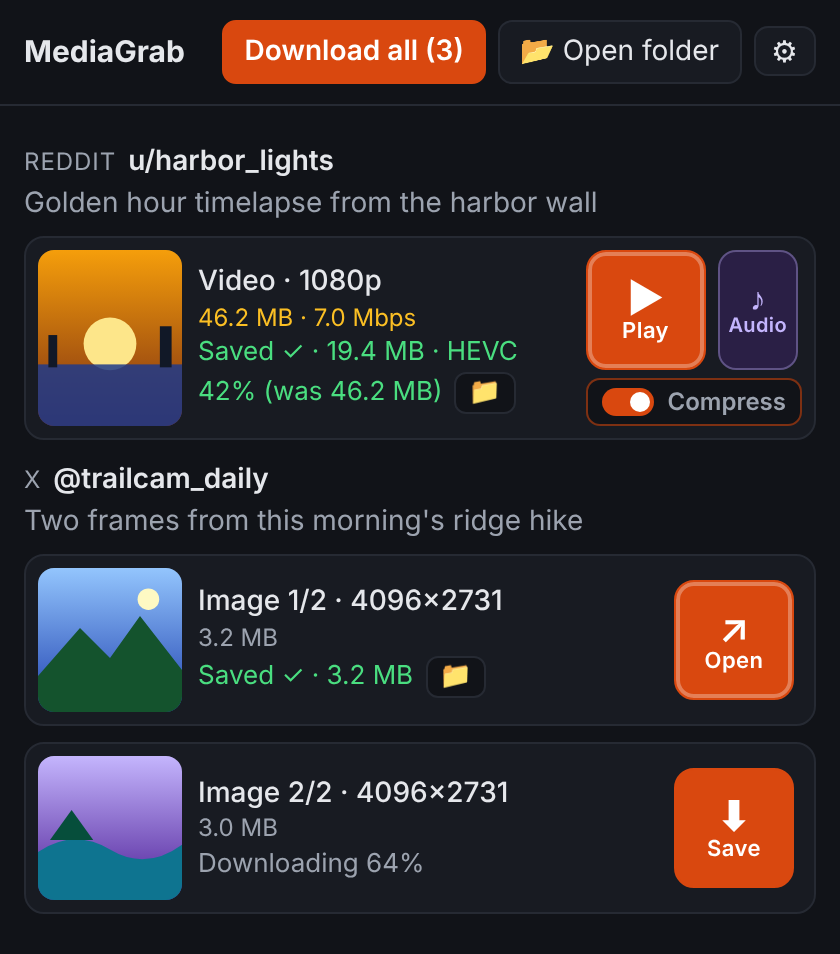
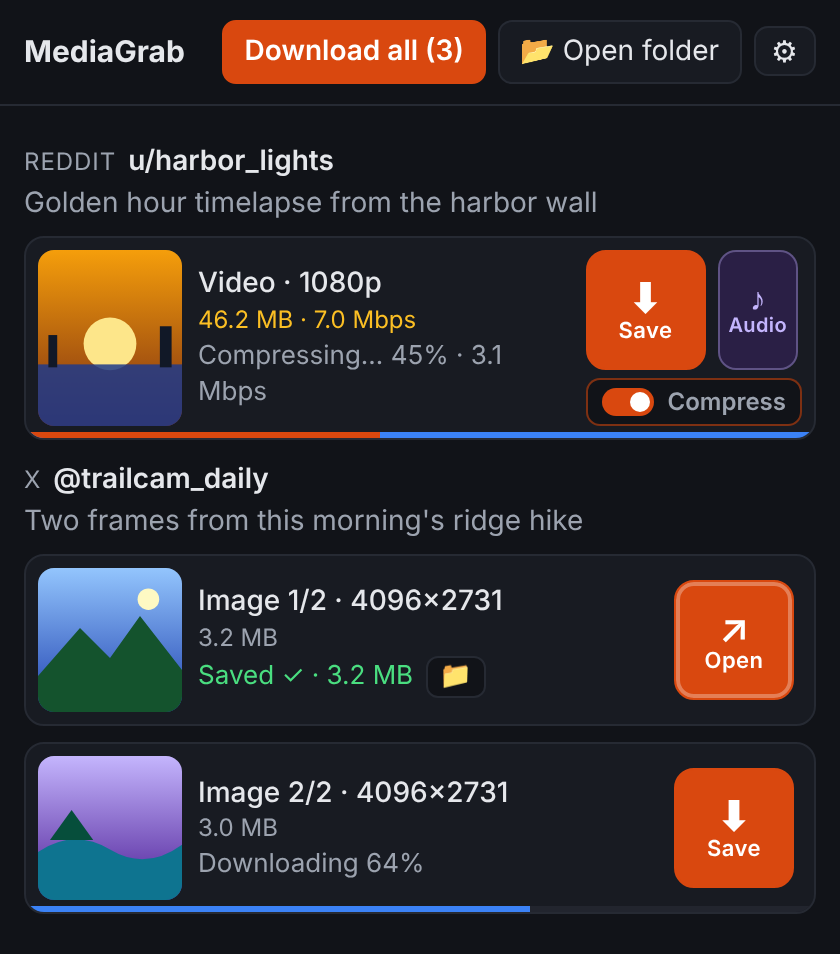
Progress bar per item and six compression quality presets
- Each popup row has a thin progress bar on its bottom edge: blue while
  downloading, then orange sweeping over it during compression; it fades
  out when the job finishes.
- Compression quality presets: Maximum, High, Balanced, Smaller, Much
  smaller, Tiny (helper 1.5.1 maps each to x265 CRF / GPU CQ values).

Claude-Session: https://claude.ai/code/session_011WKAAgvAQJpjt1ycjrW9mj

Changed region(s): [[0.0619, 0.2736, 0.9595, 0.4864], [0.031, 0.9423, 0.619, 0.9727], [0.681, 0.2432, 0.8357, 0.3952]]

diff --git a/popup/popup.js b/popup/popup.js
@@ -92,8 +92,9 @@ function renderItem(it) {
   const status = el('div', 'status', '');
   meta.append(est, status);
   const btns = saveButtons(() => download([it]), it.kind === 'video' ? () => download([it], 'audio') : null, it.kind);
-  rows.set(it.key, { status, kind: it.kind, est, chipSlot: btns.chipSlot, btns, item: it });
-  row.append(thumb, meta, btns);
+  const bar = progressBar();
+  rows.set(it.key, { status, kind: it.kind, est, chipSlot: btns.chipSlot, btns, item: it, bar });
+  row.append(thumb, meta, btns, bar.el);
   return row;
 }
 
@@ -258,12 +259,35 @@ function turnToPlay(btn, j, kind) {
   btn.onclick = () => openSaved(j, false);
 }
 
+// Thin progress bar along the bottom of a row: blue while downloading, then orange
+// sweeping over it while compressing. Fades out when the job is finished.
+function progressBar() {
+  const elBar = el('div', 'pbar');
+  const dl = el('i', 'dl');
+  const cp = el('i', 'cp');
+  elBar.append(dl, cp);
+  return { el: elBar, dl, cp };
+}
+
+const ACTIVE = new Set(['queued', 'downloading', 'merging', 'saving', 'compressing']);
+function setBar(bar, j) {
+  if (!bar) return;
+  const st = j.state;
+  const dl = st === 'downloading' ? j.pct || 0 : st === 'queued' ? 0 : 100;
+  const cp = st === 'compressing' ? j.pct || 0 : st === 'done' && j.note && /HEVC|stopped early|only saved/.test(j.note) ? 100 : 0;
+  bar.dl.style.width = `${dl}%`;
+  bar.cp.style.width = `${cp}%`;
+  bar.el.classList.toggle('on', ACTIVE.has(st));
+  bar.el.classList.toggle('pending', st === 'queued' || (st === 'downloading' && !j.pct));
+}
+
 function setStatus(key, j) {
   const r = rows.get(key);
   if (!r) return;
   const sig = JSON.stringify(j);
   if (r.sig === sig) return; // unchanged: skip the DOM work
   r.sig = sig;
+  setBar(r.bar, j);
   const s = r.status;
   const done = j.state === 'done';
   let text = (j.via === 'yt-dlp' ? 'yt-dlp · ' : '') + (j.mode === 'audio' ? 'Audio: ' : '') + (TEXT[j.state] || (() => j.state))(j);
@@ -374,7 +398,7 @@ async function renderYtdlp(tab, helper) {
   const est = el('div', 'est', '');
   const status = el('div', 'status', '');
   meta.append(sel, hint, est, status);
-  const row0 = { status, kind: 'video' };
+  const row0 = { status, kind: 'video', bar: progressBar() };
   rows.set(key, row0);
   const btns = saveButtons(
     () => ytdlp(tab.url, false, key, sel.value ? Number(sel.value) : null),
@@ -388,7 +412,7 @@ async function renderYtdlp(tab, helper) {
     btns.chipSlot.append(chip || outdatedChip(helper.version));
   }
   fillQualities(sel, hint, est, chip, key, tab.url);
-  row.append(el('div', 'thumb', '▶'), meta, btns);
+  row.append(el('div', 'thumb', '▶'), meta, btns, row0.bar.el);
   box.append(row);
   listEl.append(box);
 }

diff --git a/popup/popup.css b/popup/popup.css
@@ -132,6 +132,8 @@ button:focus-visible { outline: 2px solid var(--save); outline-offset: 2px; }
   margin: 2px 0 6px;
 }
 .row {
+  position: relative;
+  overflow: hidden;
   display: flex;
   gap: 8px;
   align-items: center;
@@ -233,3 +235,26 @@ button.mini:hover { border-color: var(--save); }
 .btns button.toggle:disabled { opacity: .55; cursor: not-allowed; }
 /* Save / Audio after the file is saved: Play / Open */
 button.save.played, button.audio.played { box-shadow: inset 0 0 0 2px color-mix(in srgb, #fff 30%, transparent); }
+
+/* Thin progress bar on the row's bottom edge: download (blue), compression (orange) over it */
+.pbar {
+  position: absolute;
+  left: 0;
+  right: 0;
+  bottom: 0;
+  height: 3px;
+  background: color-mix(in srgb, var(--line) 70%, transparent);
+  opacity: 0;
+  transition: opacity .6s .5s; /* lingers briefly when finished, then fades */
+  pointer-events: none;
+}
+.pbar.on { opacity: 1; transition: opacity .2s; }
+.pbar i { position: absolute; left: 0; top: 0; bottom: 0; width: 0; transition: width .3s ease-out; }
+.pbar .dl { background: var(--accent); }
+.pbar .cp { background: var(--save); }
+.pbar.pending .dl { width: 30% !important; animation: mg-pending 1.2s ease-in-out infinite; }
+@keyframes mg-pending { from { left: -30%; } to { left: 100%; } }
+@media (prefers-reduced-motion: reduce) {
+  .pbar i { transition: none; }
+  .pbar.pending .dl { animation: none; left: 0; }
+}

diff --git a/options/options.html b/options/options.html
@@ -96,9 +96,12 @@
       <p class="note" id="encDetected">Detecting encoders…</p>
       <label>Quality
         <select id="quality">
+          <option value="max">Maximum: near-lossless, biggest (x265 CRF 20 · GPU CQ 20–22)</option>
           <option value="high">High (x265 CRF 22 · GPU CQ 22–24)</option>
           <option value="balanced">Balanced (x265 CRF 24 · GPU CQ 25–27)</option>
           <option value="small">Smaller files (x265 CRF 27 · GPU CQ 28–30)</option>
+          <option value="smaller">Much smaller (x265 CRF 29 · GPU CQ 30–32)</option>
+          <option value="tiny">Tiny: visible softening (x265 CRF 32 · GPU CQ 33–35)</option>
         </select>
       </label>
       <label>CPU encoder speed

diff --git a/lib/settings.js b/lib/settings.js
@@ -22,7 +22,7 @@ export const DEFAULTS = {
   limit720: 3000, // kbps: video bitrate above this at 720p is worth compressing
   limit1080: 5000, // kbps at 1080p (other resolutions follow the same curve)
   encoder: 'auto', // 'auto' (GPU if available, else CPU) | 'x265' | 'nvenc' | 'qsv' | 'amf'
-  quality: 'balanced', // 'high' | 'balanced' | 'small'
+  quality: 'balanced', // 'max' | 'high' | 'balanced' | 'small' | 'smaller' | 'tiny'
   x265Preset: 'slow', // CPU encoder speed: 'medium' | 'slow' | 'slower'
   minSavings: 15, // % — keep the original if compression saves less than this
 };

diff --git a/lib/helper.js b/lib/helper.js
@@ -51,7 +51,7 @@ async function once(msg, onProgress) {
 }
 
 // Oldest helper with every command this extension uses (compression arrived in 1.4.0).
-export const MIN_HELPER = '1.5.0';
+export const MIN_HELPER = '1.5.1';
 export const helperOutdated = (v) => {
   const a = String(v || '0').split('.').map(Number), b = MIN_HELPER.split('.').map(Number);
   for (let i = 0; i < 3; i++) if ((a[i] || 0) !== b[i]) return (a[i] || 0) < b[i];

diff --git a/README.md b/README.md
@@ -23,7 +23,7 @@
 - **Galleries and carousels**: every image and video in a post, numbered.
 - **Audio only** as MP3 (converted by the helper's ffmpeg) or M4A (the original track, no re-encoding).
 - **Size before you save**: MediaGrab asks the server for each file's exact size (nothing is downloaded) and shows it with the video bitrate. Where a server won't tell, it falls back to an estimate from the site's own data ("≈"). The line turns orange when a video is over your bitrate limit.
-- **Save + compress to HEVC** (helper): a per-video *Compress to HEVC* toggle, pre-ticked for videos over your limit (by default 3000 kbps at 720p and 5000 kbps at 1080p; other resolutions follow the same curve). Uses your graphics card (NVENC / Quick Sync / AMF, slowest and most efficient preset) or x265 on the CPU, and copies the audio untouched. Shows progress and the current bitrate while it works, and saves the result as `name_comp.mp4`. If the projected saving drops below your minimum (15% by default), it stops early and keeps the original. Everything is adjustable in Settings.
+- **Save + compress to HEVC** (helper): a per-video *Compress to HEVC* toggle, pre-ticked for videos over your limit (by default 3000 kbps at 720p and 5000 kbps at 1080p; other resolutions follow the same curve). Uses your graphics card (NVENC / Quick Sync / AMF, slowest and most efficient preset) or x265 on the CPU, and copies the audio untouched. Six quality presets, from near-lossless to tiny. Shows progress and the current bitrate while it works (a thin bar under each item: blue for downloading, then orange sweeping over it for compression), and saves the result as `name_comp.mp4`. If the projected saving drops below your minimum (15% by default), it stops early and keeps the original. Everything is adjustable in Settings.
 - **After saving**: Save turns into **▶ Play** for the saved (or compressed) file, and 📁 shows it in its folder. **📂 Open folder** jumps to your last save.
 - **Filenames** like `timelapse - Golden hour timelapse from the harbor wal.mp4` (subreddit or author, then the first 45 characters of the description), adjustable in Settings.
 - **Quality settings**: maximum resolution, prefer H.264, use X's sharper HLS stream.
